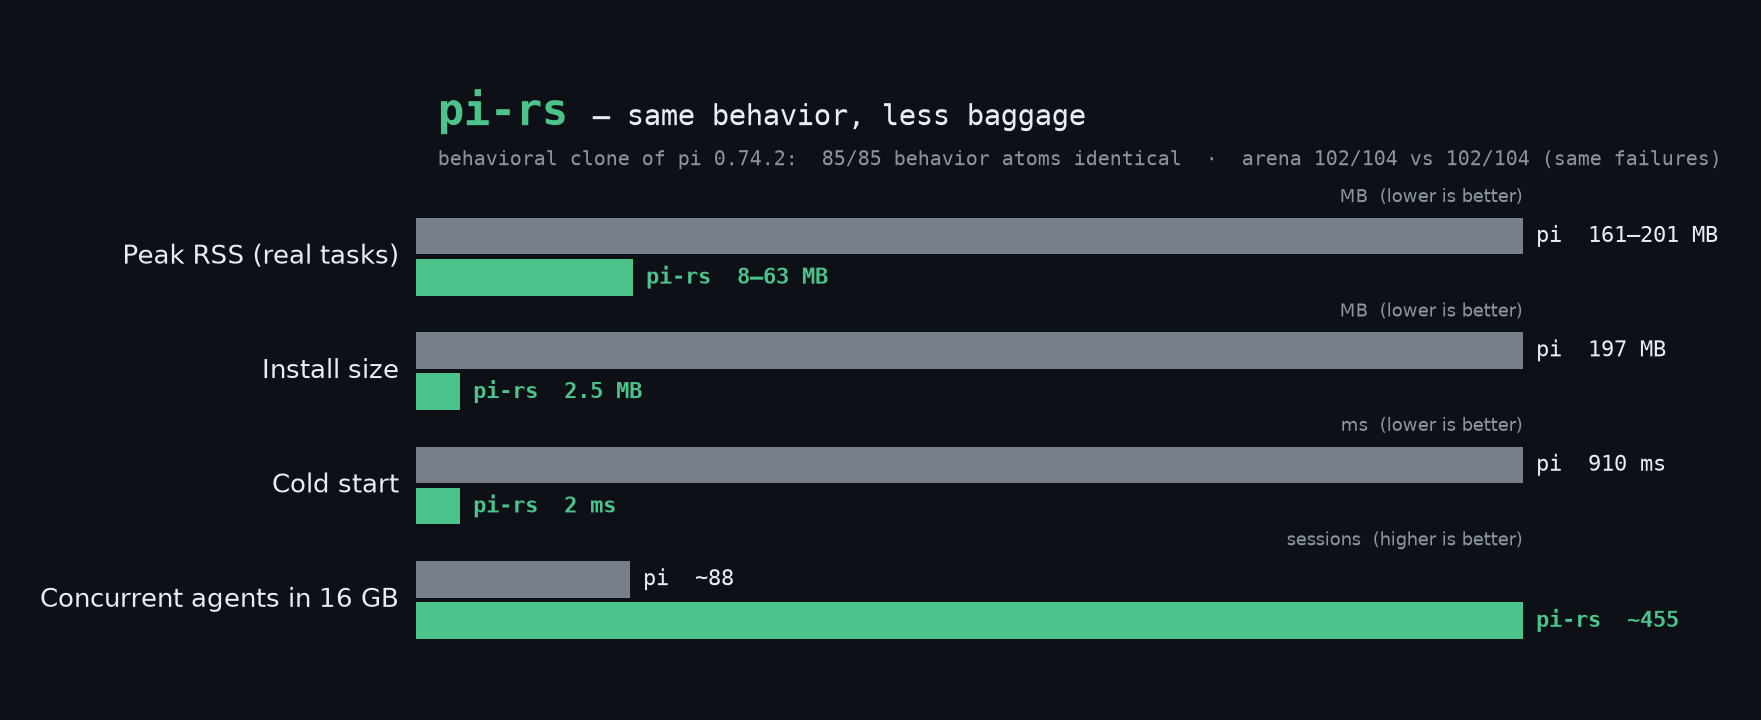
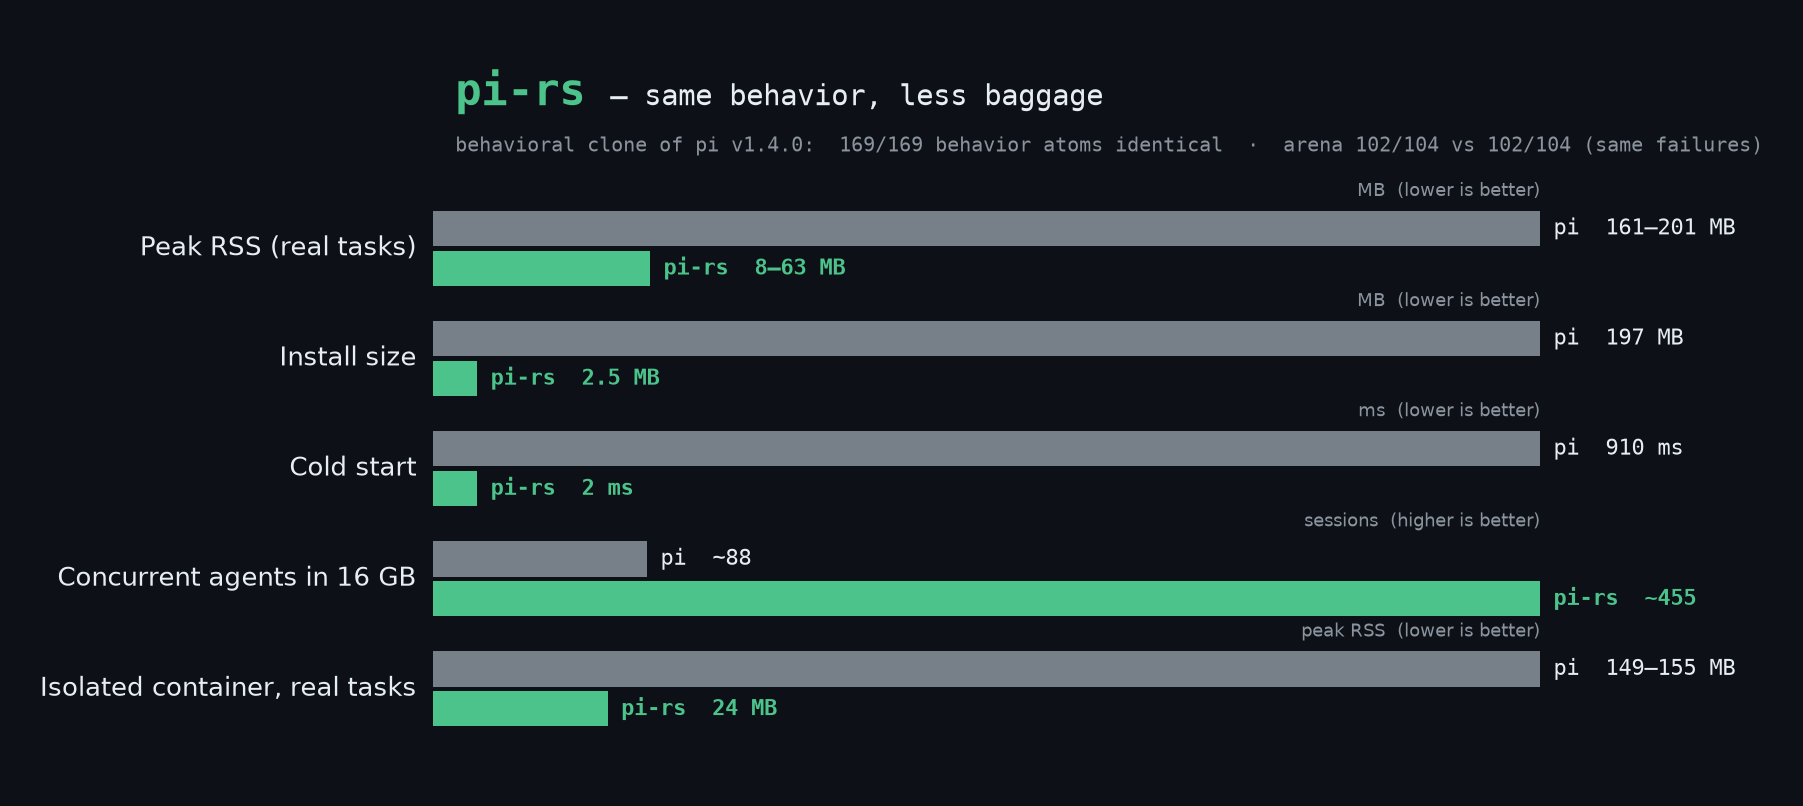
chart: v1.4.0/169 subtitle + isolated-container row (6.2x)

diff --git a/assets/make_chart.py b/assets/make_chart.py
@@ -17,9 +17,10 @@ rows = [
     ("Install size", "197 MB", "2.5 MB", 197, 2.5, "MB  (lower is better)"),
     ("Cold start", "910 ms", "2 ms", 910, 2, "ms  (lower is better)"),
     ("Concurrent agents in 16 GB", "~88", "~455", 88, 455, "sessions  (higher is better)"),
+    ("Isolated container, real tasks", "149–155 MB", "24 MB", 152, 24, "peak RSS  (lower is better)"),
 ]
 
-fig, ax = plt.subplots(figsize=(10, 5.2), dpi=160)
+fig, ax = plt.subplots(figsize=(10, 5.9), dpi=160)
 fig.patch.set_facecolor(DARK)
 ax.set_facecolor(DARK)
 
@@ -46,9 +47,9 @@ ax.set_ylim(-0.7, len(rows) + 0.9)
 ax.axis("off")
 
 ty = len(rows) - 0.2
-ax.text(0.02, ty + 0.35, "pi-rs", fontsize=20, color=RS_C, fontweight="bold", family="monospace")
-ax.text(0.16, ty + 0.35, "— same behavior, less baggage", fontsize=13, color=FG, family="monospace")
-ax.text(0.02, ty, "behavioral clone of pi 0.74.2:  85/85 behavior atoms identical  ·  arena 102/104 vs 102/104 (same failures)",
+ax.text(0.02, ty + 0.5, "pi-rs", fontsize=20, color=RS_C, fontweight="bold", family="monospace")
+ax.text(0.16, ty + 0.5, "— same behavior, less baggage", fontsize=13, color=FG, family="monospace")
+ax.text(0.02, ty + 0.08, "behavioral clone of pi v1.4.0:  169/169 behavior atoms identical  ·  arena 102/104 vs 102/104 (same failures)",
         fontsize=9, color=MUTED, family="monospace")
 
 out = os.path.join(os.path.dirname(__file__), "comparison.png")
